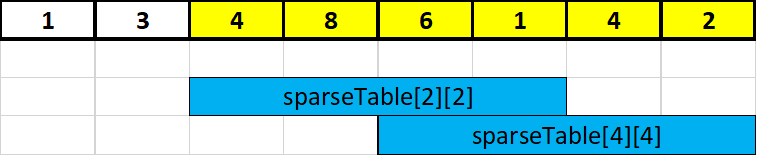
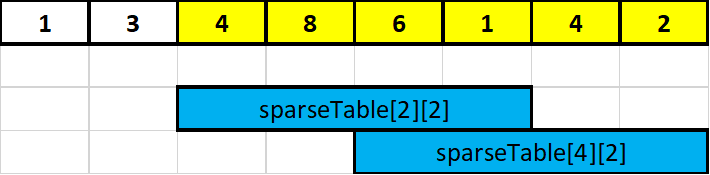
[Difference array] corrections (#21)
* fix wrong index

* add missing $

* remove arr.size(), use variable instead

* fix wrong number on image

diff --git a/docs/upiti-nad-intervalima-1/difference-array.md b/docs/upiti-nad-intervalima-1/difference-array.md
@@ -44,7 +44,7 @@ $$
 differenceArray[a] = differenceArray[a] + x  
 $$
 $$
-differenceArray[b + 1] = differenceArray[a] - x  
+differenceArray[b + 1] = differenceArray[b + 1] - x  
 $$  
 
 :::caution Oprez  
@@ -200,7 +200,7 @@ vector <int> getOriginalArray(vector <int> &diffArr) {
 Difference array vrlo efikasno u $O(1)$ dodaje neku vrijednost cijelom intervalu niza, a kao što smo rekli i što vidimo iz $getValue$ funkcije, dohvat elemenata se odvija u $O(n)$, što je presporo ako imamo puno takvih upita.  
 
 
-U savršenom scenariju gdje se sve promjene nad nizom odvijaju prije upita složenost je O(n + m + q), gdje je:  
+U savršenom scenariju gdje se sve promjene nad nizom odvijaju prije upita složenost je $O(n + m + q)$, gdje je:  
 $n$ - broj zahtjeva za promjenom nekog niza, $n$ puta odradimo update u $O(1)$  
 $m$ - veličina niza; u $O(m)$ izračunamo originalni niz  
 $q$ - broj upita, $q$ upita za vrijednost nekog člana u $O(1)$ koristeći izračunati originalni niz  

diff --git a/docs/upiti-nad-intervalima-1/sparse-table.md b/docs/upiti-nad-intervalima-1/sparse-table.md
@@ -119,7 +119,7 @@ vector < vector<int> > createSparseTable(vector <int> arr) {
 	vector <int> row(K + 1);
 	vector < vector<int> > sparseTable(N, row);
 
-	for(int i = 0; i < arr.size(); i++) { // j = 0
+	for(int i = 0; i < N; i++) { // j = 0
 		sparseTable[i][0] = arr[i]; 	  //intervali duljine 2^0 = 1
 	}
 
